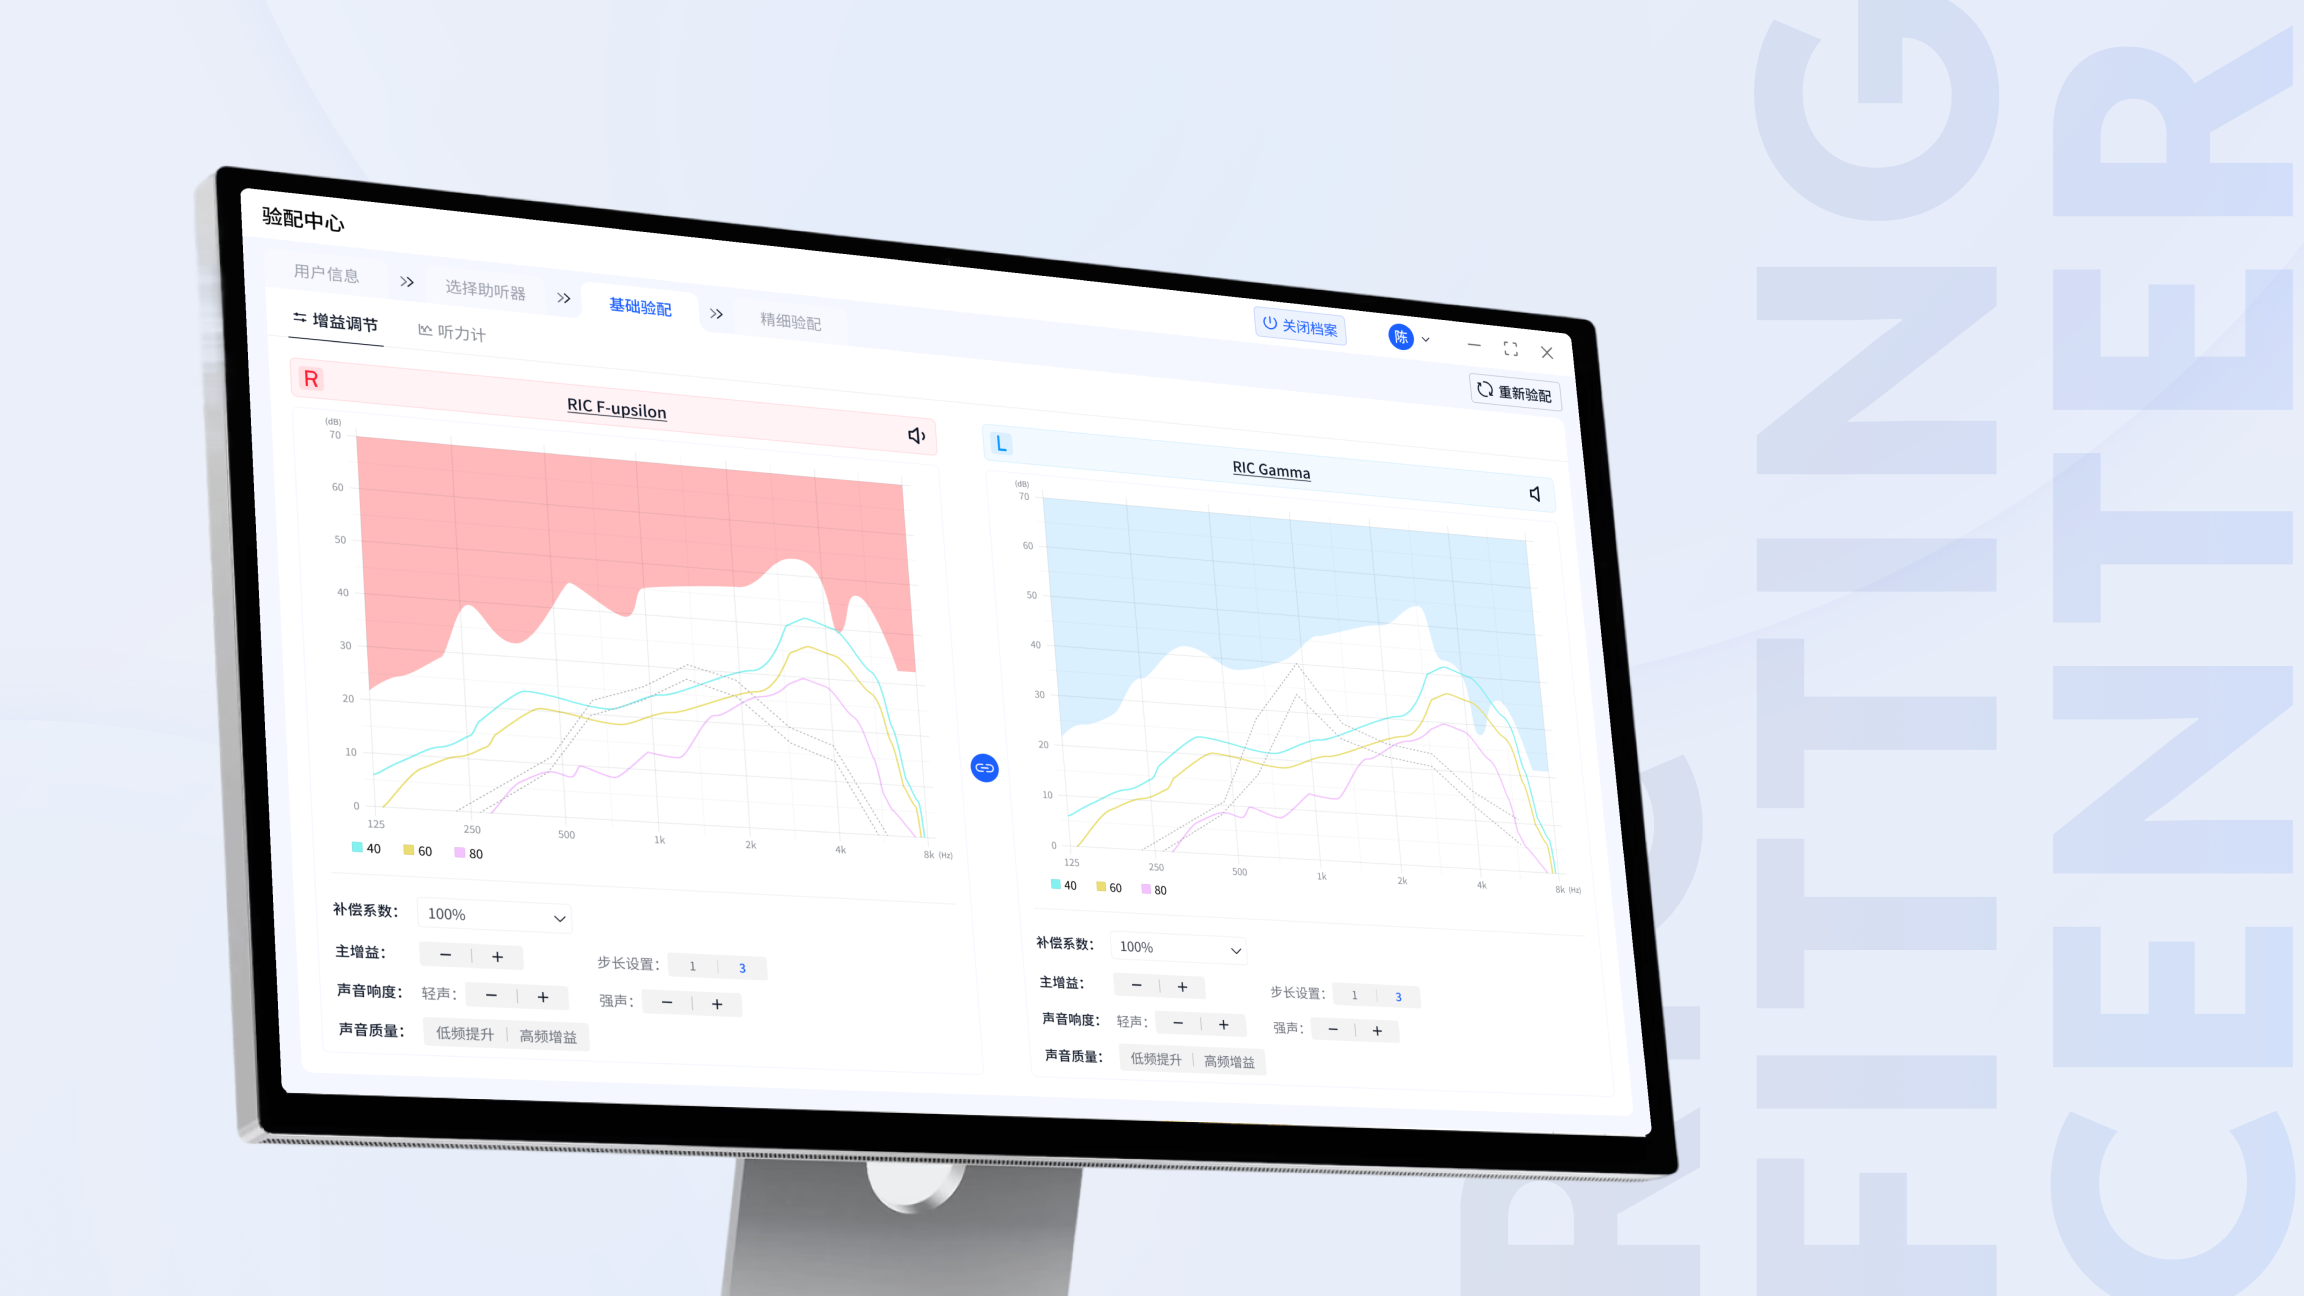
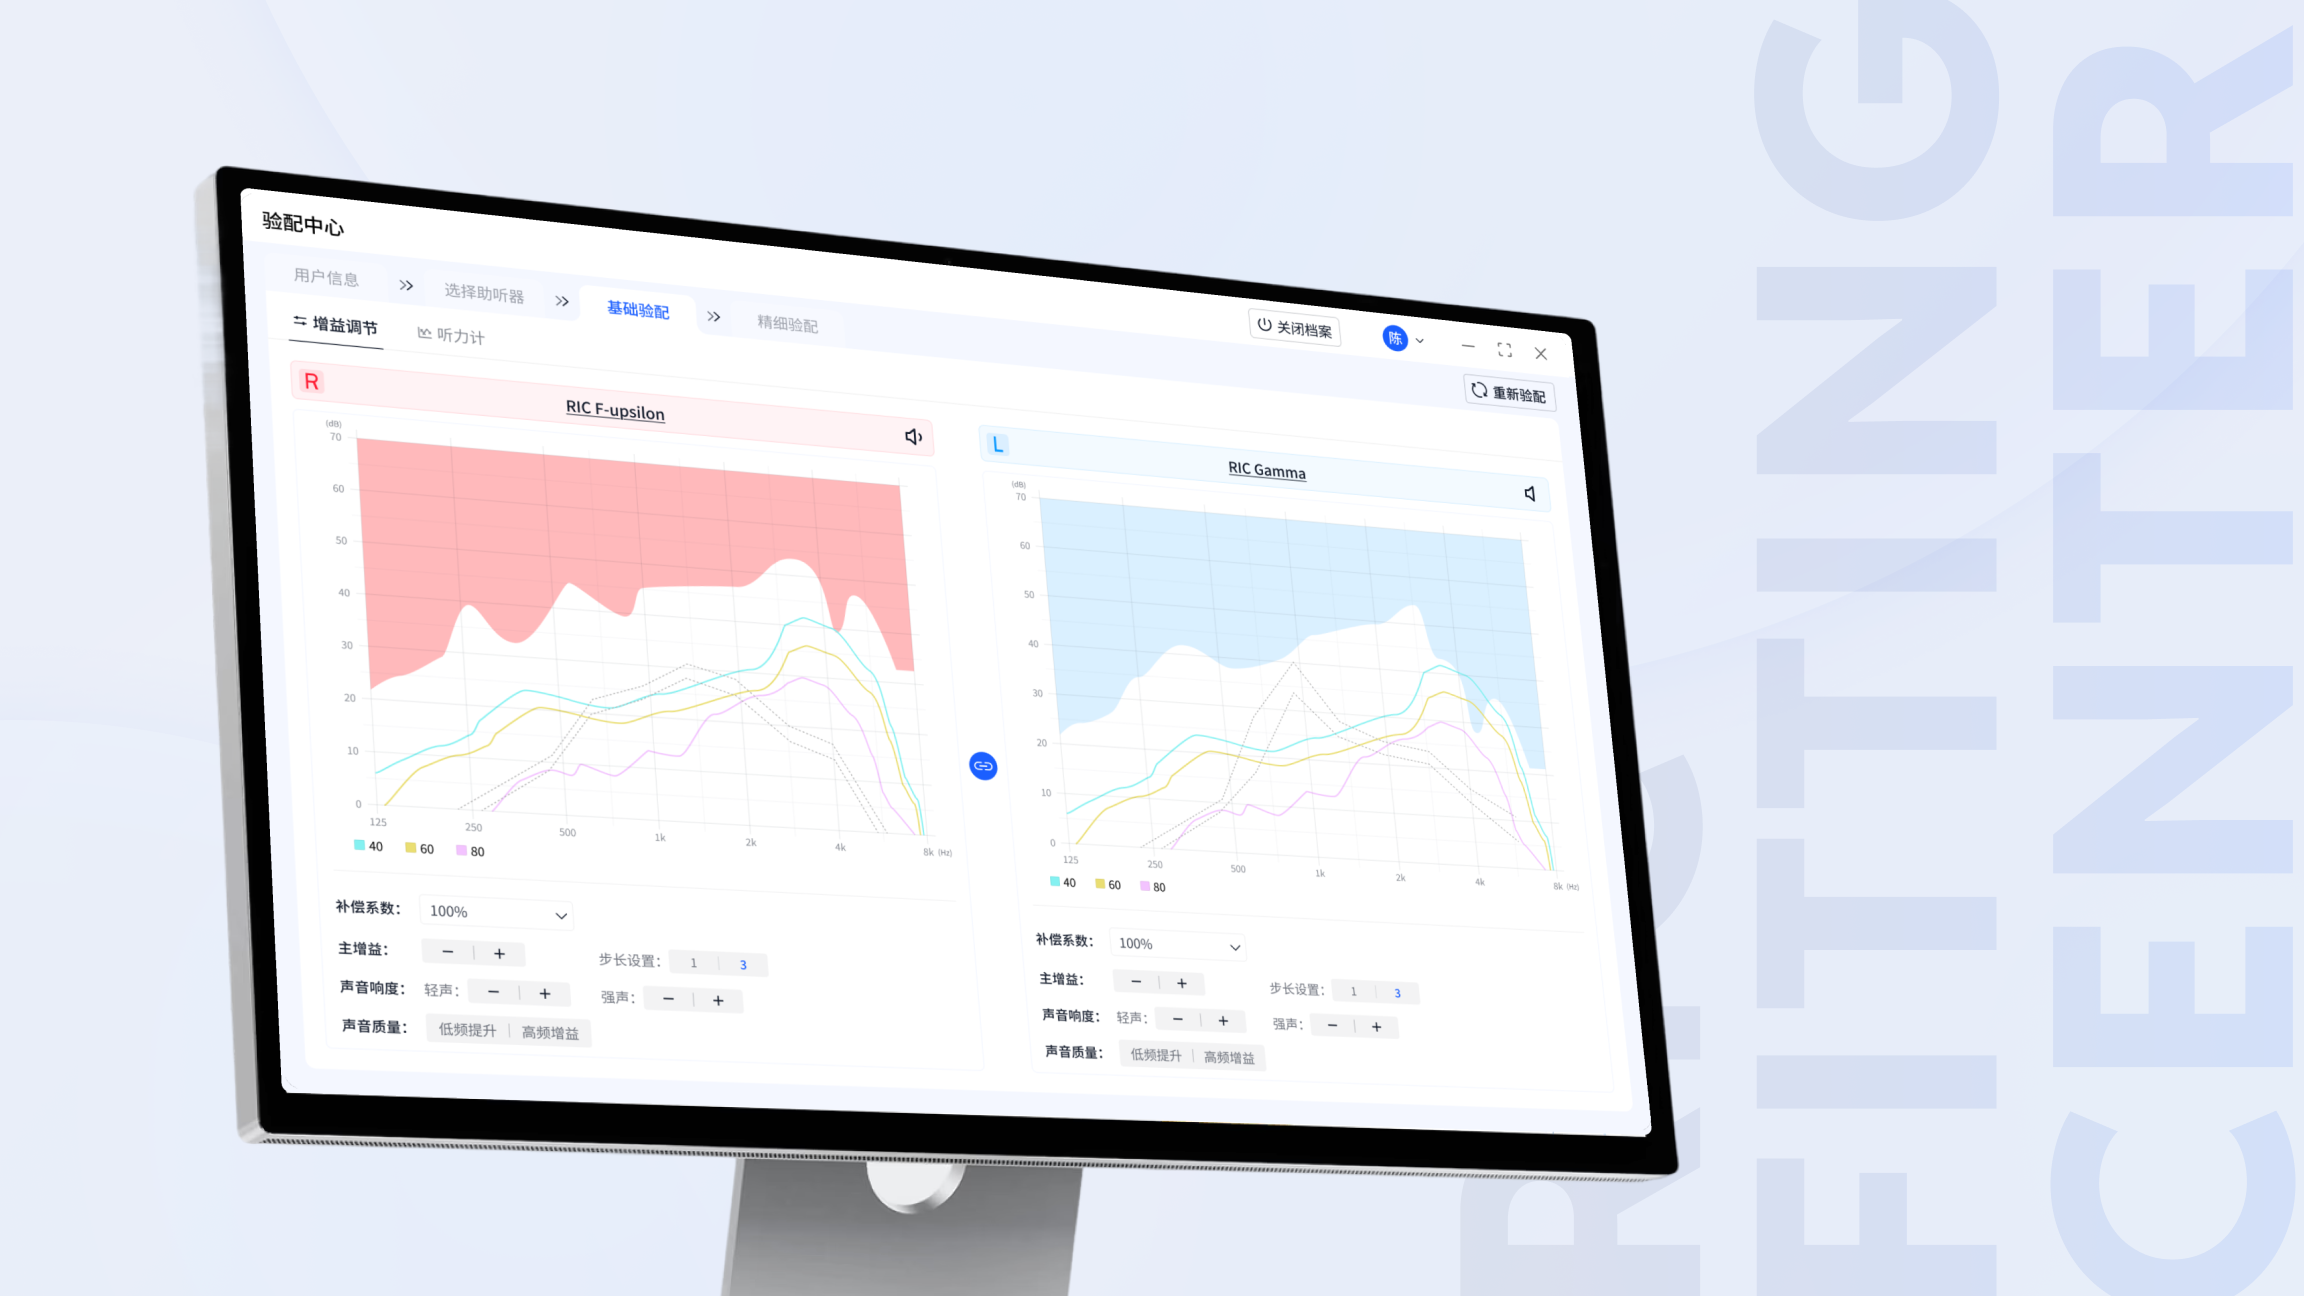
V2.4.5

diff --git a/src/components/Navbar.module.css b/src/components/Navbar.module.css
@@ -4,7 +4,7 @@
   left: 0;
   right: 0;
   z-index: 100;
-  height: 80px;
+  height: 70px;
   background-color: transparent;
   transition: all 400ms ease;
   width: 100%;
@@ -159,7 +159,7 @@
 
 @media (max-width: 768px) {
   .nav {
-    height: 80px;
+    height: 70px;
   }
   .links {
     display: none;